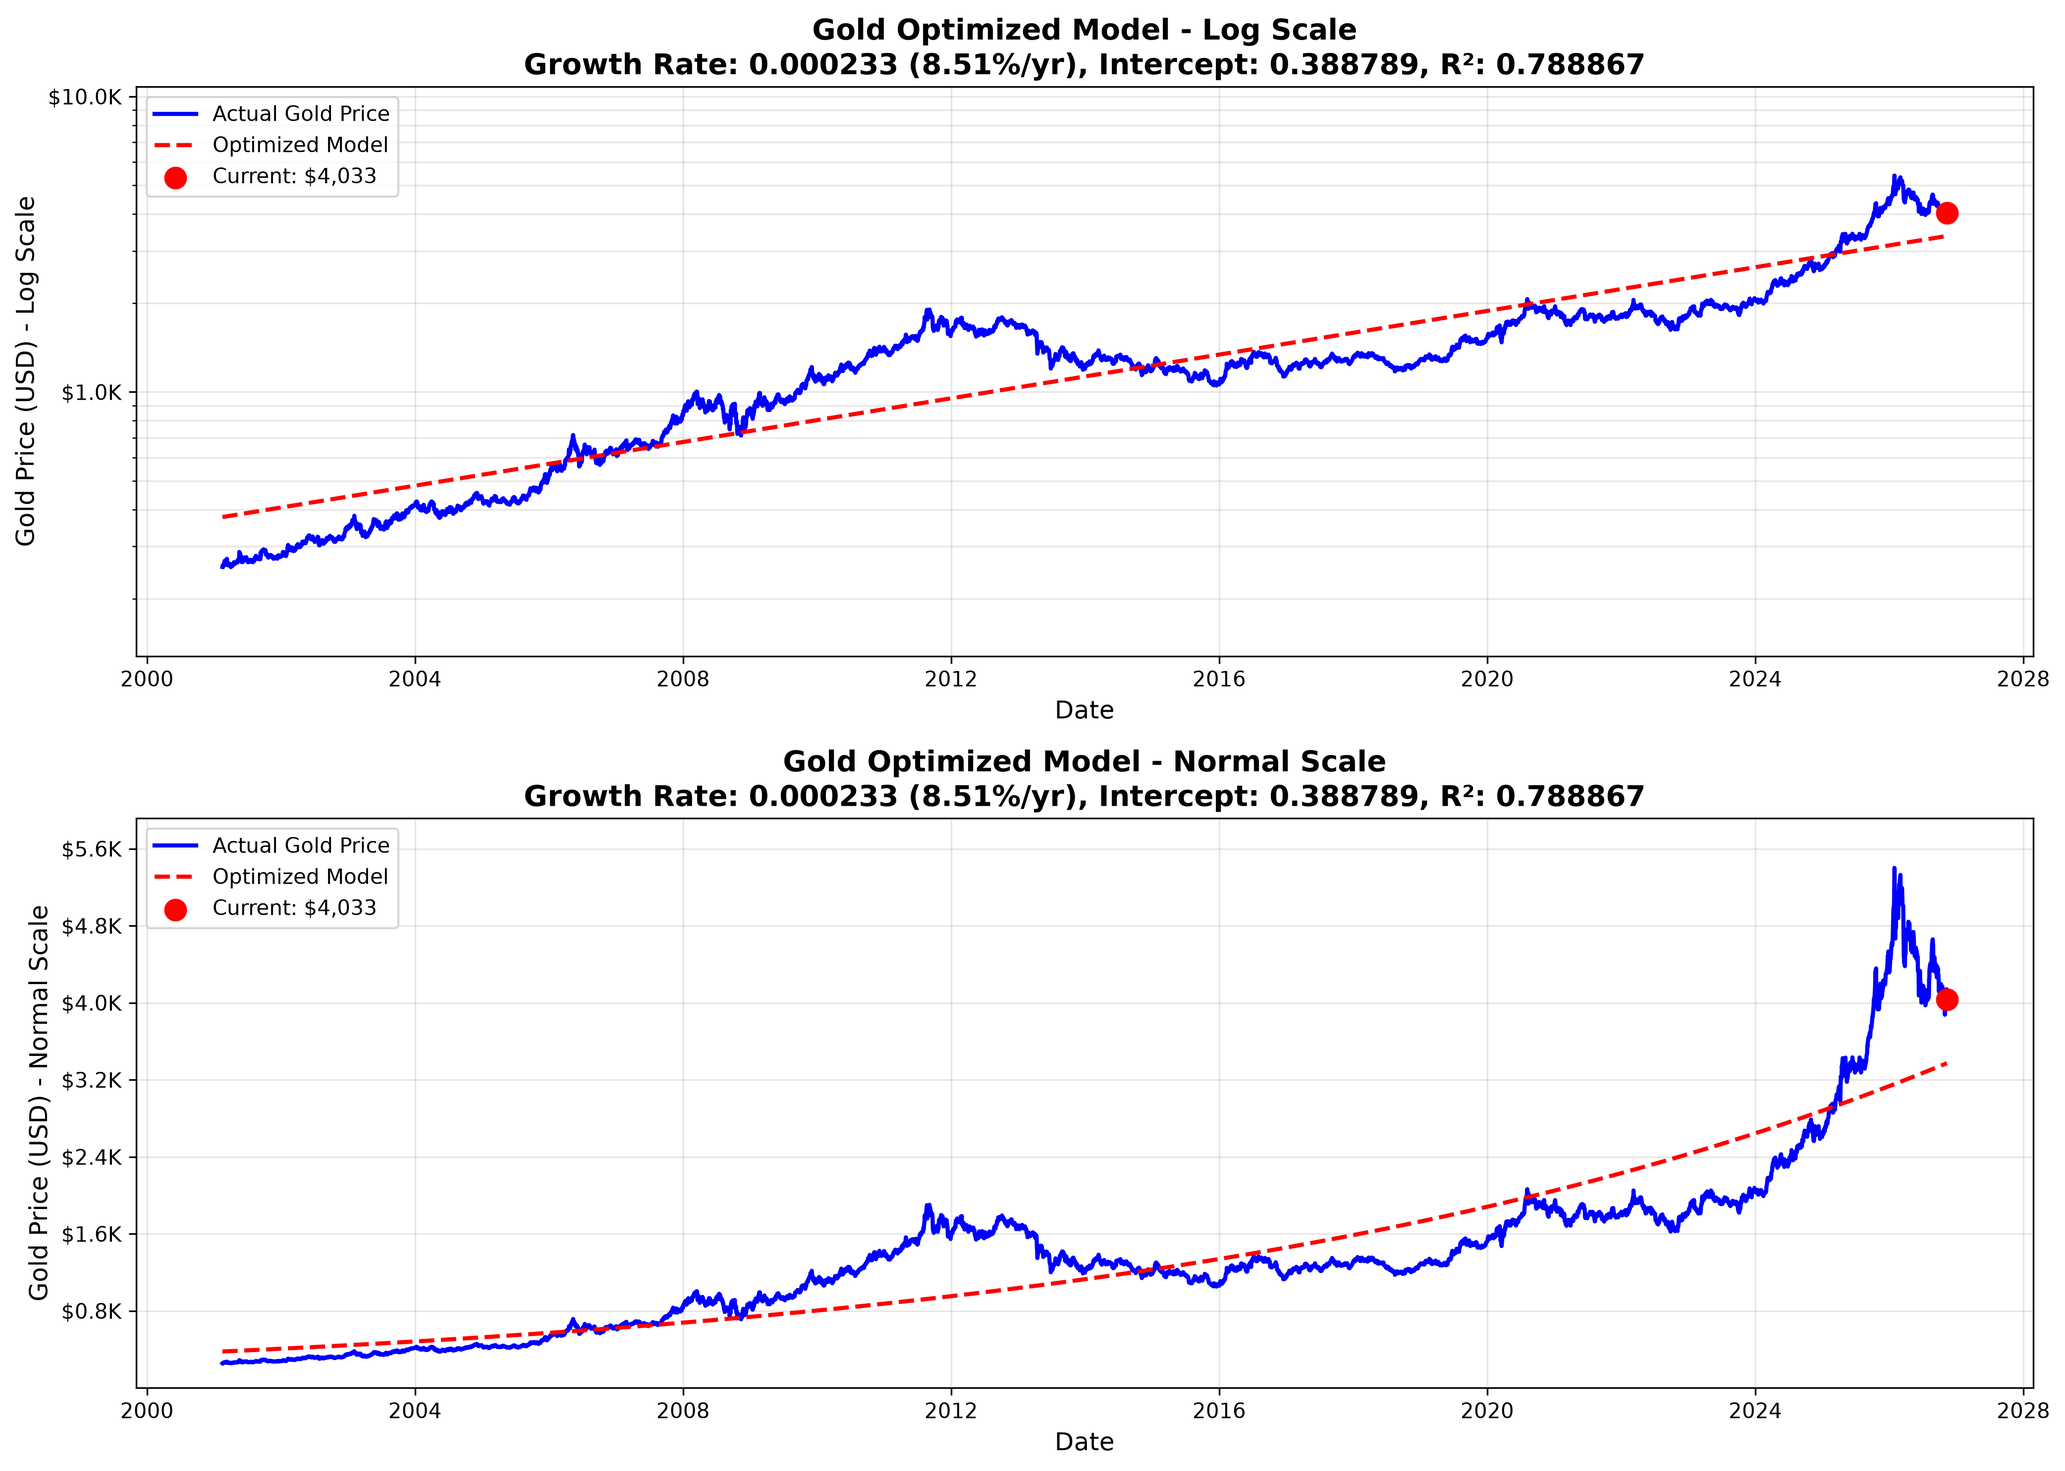
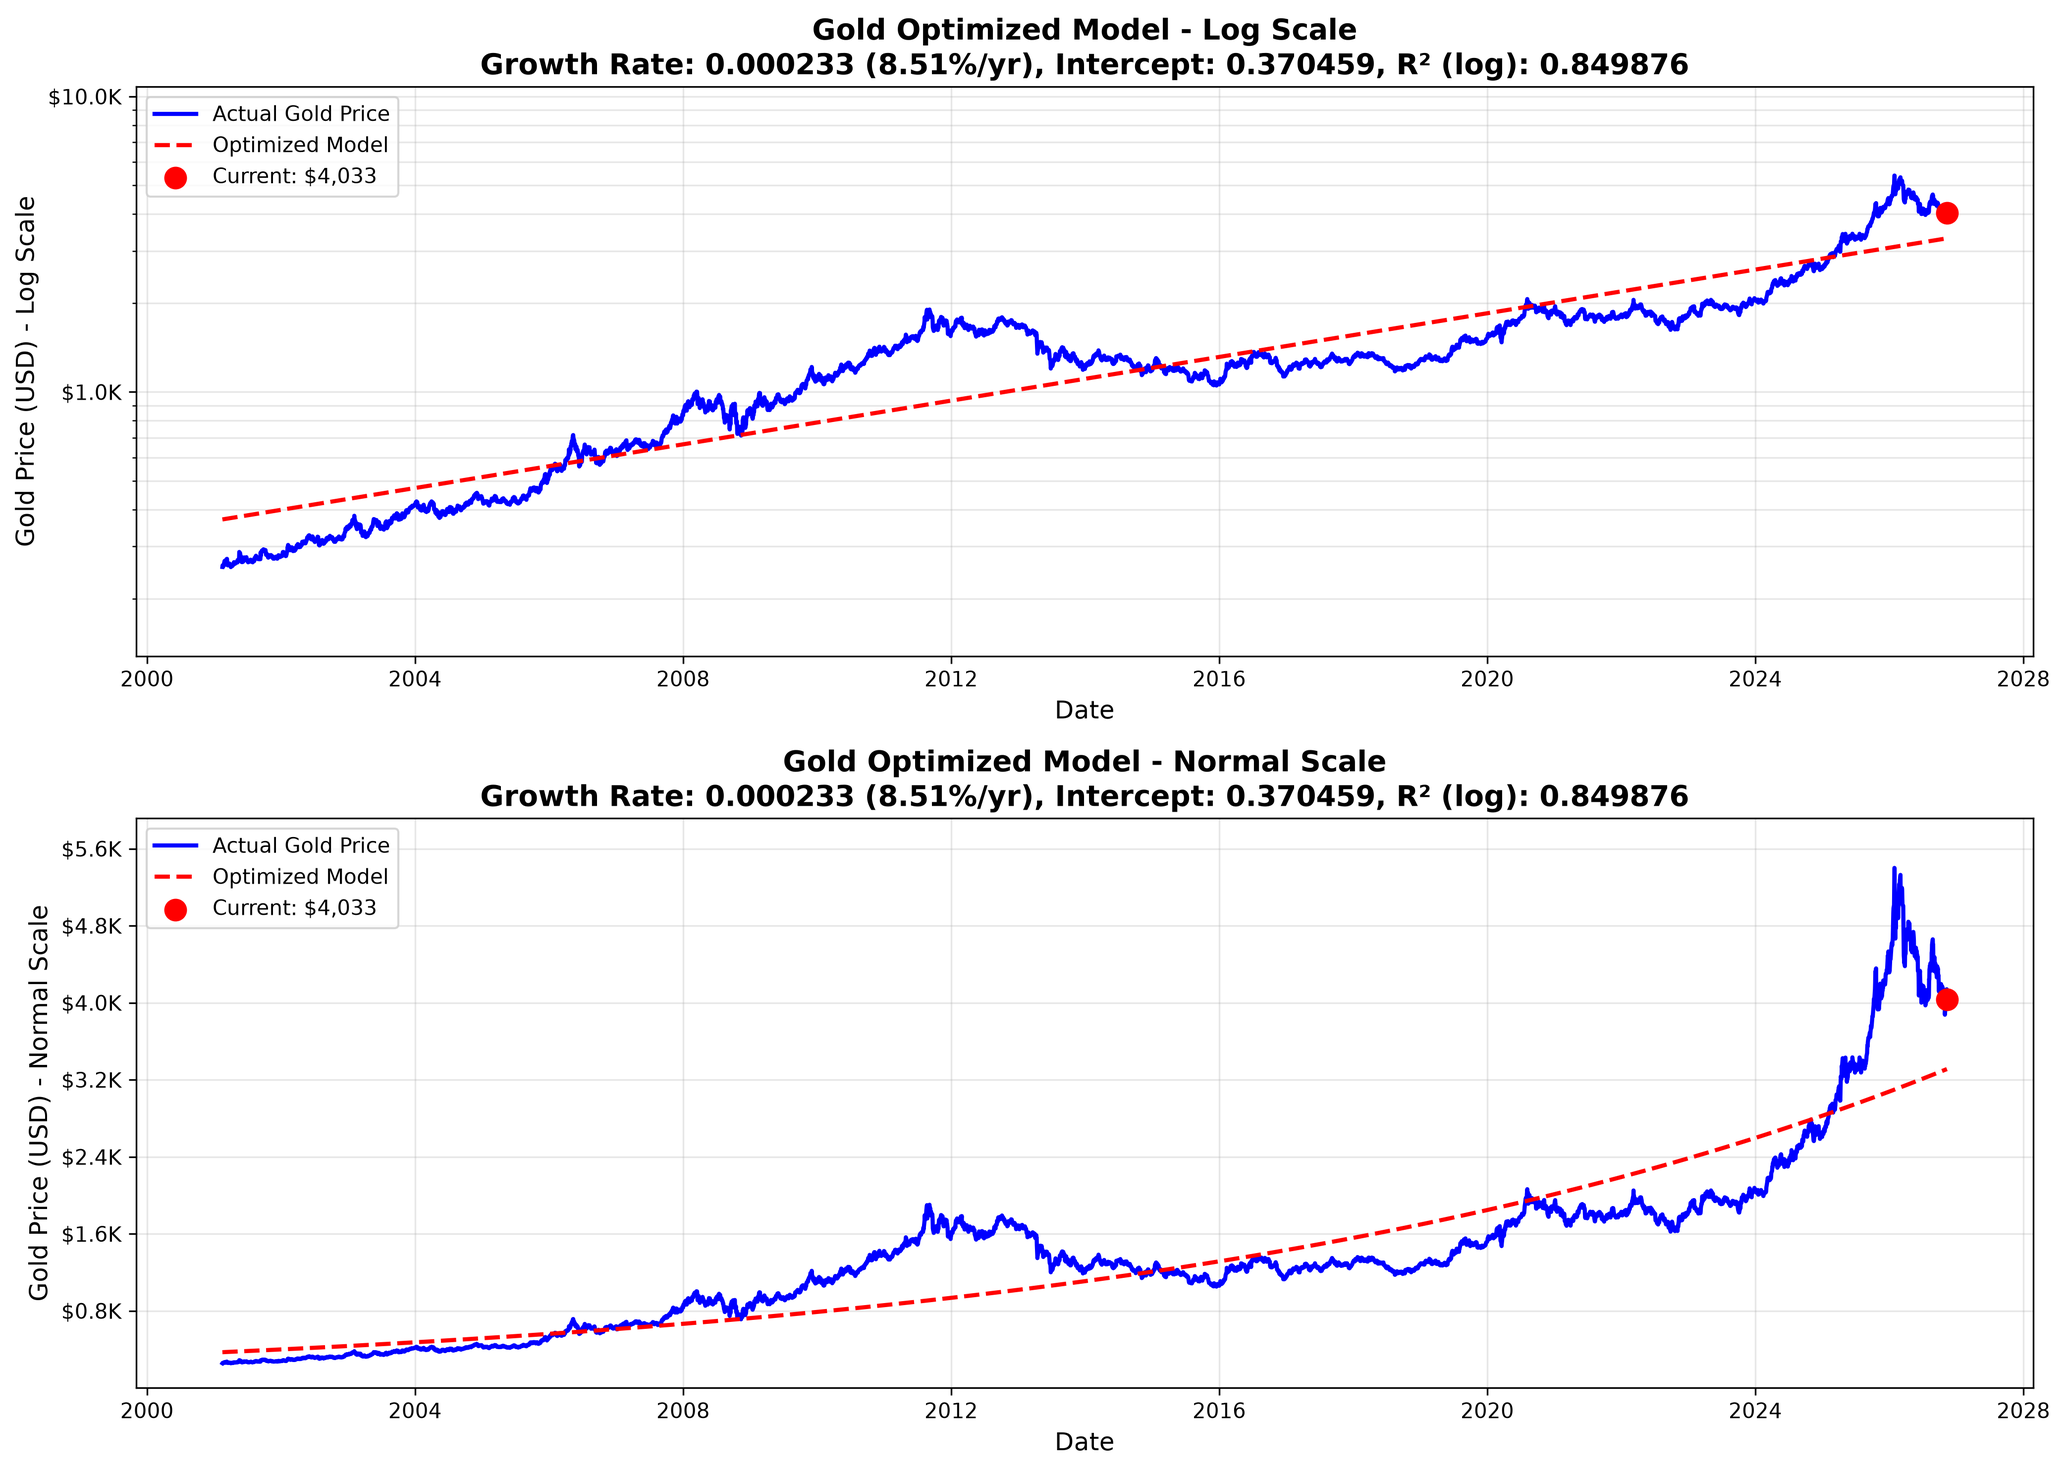
Score gold and silver model fits with log-scale R²
calculate_r2 in the gold exponential_v2 and silver exponential scripts now
compares log prices, so misses count as percentages and every period of
history is weighted equally instead of recent high-price years dominating.
R² outputs and chart titles are labeled "(log)". Regenerated results.

diff --git a/Commodities/Gold/exponential_v2/interactive_rainbow.py b/Commodities/Gold/exponential_v2/interactive_rainbow.py
@@ -136,9 +136,12 @@ def calculate_r2(y_actual, y_pred):
     y_actual_valid = y_actual[valid_mask]
     y_pred_valid = y_pred[valid_mask]
     
-    # Calculate R² in normal space (not log space for exponential model)
-    ss_res = np.sum((y_actual_valid - y_pred_valid) ** 2)
-    ss_tot = np.sum((y_actual_valid - np.mean(y_actual_valid)) ** 2)
+    # Calculate R² in log space: misses are scored as percentages, so every
+    # period of history counts equally regardless of price level.
+    log_actual = np.log(y_actual_valid)
+    log_pred = np.log(y_pred_valid)
+    ss_res = np.sum((log_actual - log_pred) ** 2)
+    ss_tot = np.sum((log_actual - np.mean(log_actual)) ** 2)
     
     if ss_tot == 0:
         return 0.0
@@ -234,8 +237,8 @@ def update_model(val):
     r2 = calculate_r2(df_filtered['Price'], df_filtered['Model_Price'])
     
     # Update titles
-    ax1.set_title(f'{CURRENCY_NAME} Rainbow Chart - Log Scale\nR² = {r2:.6f}', fontsize=14, fontweight='bold')
-    ax2.set_title(f'{CURRENCY_NAME} Rainbow Chart - Normal Scale\nR² = {r2:.6f}', fontsize=14, fontweight='bold')
+    ax1.set_title(f'{CURRENCY_NAME} Rainbow Chart - Log Scale\nR² (log) = {r2:.6f}', fontsize=14, fontweight='bold')
+    ax2.set_title(f'{CURRENCY_NAME} Rainbow Chart - Normal Scale\nR² (log) = {r2:.6f}', fontsize=14, fontweight='bold')
     
     # Update info text
     current_price = df_filtered['Price'].iloc[-1]
@@ -260,7 +263,7 @@ def update_model(val):
     # Calculate annualized growth rate for display
     annualized_rate = growth_rate * 365.25 * 100  # Convert to percentage
     
-    info_text = f"Growth Rate: {growth_rate:.6f} ({annualized_rate:.2f}%/yr) | R²: {r2:.6f} | Current: {current_str} | Model: {model_str} | Deviation: {deviation:+.1f}%"
+    info_text = f"Growth Rate: {growth_rate:.6f} ({annualized_rate:.2f}%/yr) | R² (log): {r2:.6f} | Current: {current_str} | Model: {model_str} | Deviation: {deviation:+.1f}%"
     
     ax_info.texts[0].set_text(info_text)
     
@@ -287,7 +290,7 @@ def main():
     print(f"Optimal growth rate: {initial_growth_rate:.6f} per day")
     annualized_rate = initial_growth_rate * 365.25 * 100
     print(f"Annualized growth rate: {annualized_rate:.2f}% per year")
-    print(f"Maximum R²: {optimal_r2:.6f}")
+    print(f"Maximum R² (log): {optimal_r2:.6f}")
     
     # Create figure with two subplots
     plt.style.use('default')
@@ -340,7 +343,7 @@ def main():
     # Add model information
     initial_r2 = calculate_r2(df_filtered['Price'], df_filtered['Model_Price'])
     annualized_rate = initial_growth_rate * 365.25 * 100
-    formula_text = f'Model: price = {first_price:.2f} × e^({initial_growth_rate:.6f} × (day - {first_days:.0f}))\nGrowth: {annualized_rate:.2f}%/yr | R² = {initial_r2:.4f}'
+    formula_text = f'Model: price = {first_price:.2f} × e^({initial_growth_rate:.6f} × (day - {first_days:.0f}))\nGrowth: {annualized_rate:.2f}%/yr | R² (log) = {initial_r2:.4f}'
     ax1.text(0.02, 0.02, formula_text, transform=ax1.transAxes, fontsize=10, 
             color='black', bbox=dict(facecolor='white', alpha=0.8, boxstyle='round,pad=0.5'))
     ax2.text(0.02, 0.02, formula_text, transform=ax2.transAxes, fontsize=10, 
@@ -350,7 +353,7 @@ def main():
     for ax, ylabel_suffix in [(ax1, 'Log Scale'), (ax2, 'Normal Scale')]:
         ax.set_xlabel('Date', fontsize=12)
         ax.set_ylabel(f'{CURRENCY_NAME} Price (USD) - {ylabel_suffix}', fontsize=12)
-        ax.set_title(f'{CURRENCY_NAME} Rainbow Chart - {ylabel_suffix}\nR² = {initial_r2:.6f}', fontsize=14, fontweight='bold')
+        ax.set_title(f'{CURRENCY_NAME} Rainbow Chart - {ylabel_suffix}\nR² (log) = {initial_r2:.6f}', fontsize=14, fontweight='bold')
         ax.grid(True, alpha=0.3, which='both')
         
         # Dynamic y-axis formatting based on data range
@@ -434,7 +437,7 @@ def main():
     # Calculate annualized growth rate for display
     annualized_rate = initial_growth_rate * 365.25 * 100
     
-    info_text = f"Growth Rate: {initial_growth_rate:.6f} ({annualized_rate:.2f}%/yr) | R²: {initial_r2:.6f} | Current: {current_str} | Model: {model_str} | Deviation: {deviation:+.1f}%"
+    info_text = f"Growth Rate: {initial_growth_rate:.6f} ({annualized_rate:.2f}%/yr) | R² (log): {initial_r2:.6f} | Current: {current_str} | Model: {model_str} | Deviation: {deviation:+.1f}%"
     
     ax_info.text(0.02, 0.5, info_text, transform=ax_info.transAxes, fontsize=11, 
                 verticalalignment='center', bbox=dict(facecolor='lightgray', alpha=0.8, boxstyle='round,pad=0.3'))

diff --git a/Commodities/Silver/exponential/interactive_rainbow.py b/Commodities/Silver/exponential/interactive_rainbow.py
@@ -136,9 +136,12 @@ def calculate_r2(y_actual, y_pred):
     y_actual_valid = y_actual[valid_mask]
     y_pred_valid = y_pred[valid_mask]
     
-    # Calculate R² in normal space (not log space for exponential model)
-    ss_res = np.sum((y_actual_valid - y_pred_valid) ** 2)
-    ss_tot = np.sum((y_actual_valid - np.mean(y_actual_valid)) ** 2)
+    # Calculate R² in log space: misses are scored as percentages, so every
+    # period of history counts equally regardless of price level.
+    log_actual = np.log(y_actual_valid)
+    log_pred = np.log(y_pred_valid)
+    ss_res = np.sum((log_actual - log_pred) ** 2)
+    ss_tot = np.sum((log_actual - np.mean(log_actual)) ** 2)
     
     if ss_tot == 0:
         return 0.0
@@ -234,8 +237,8 @@ def update_model(val):
     r2 = calculate_r2(df_filtered['Price'], df_filtered['Model_Price'])
     
     # Update titles
-    ax1.set_title(f'{CURRENCY_NAME} Rainbow Chart - Log Scale\nR² = {r2:.6f}', fontsize=14, fontweight='bold')
-    ax2.set_title(f'{CURRENCY_NAME} Rainbow Chart - Normal Scale\nR² = {r2:.6f}', fontsize=14, fontweight='bold')
+    ax1.set_title(f'{CURRENCY_NAME} Rainbow Chart - Log Scale\nR² (log) = {r2:.6f}', fontsize=14, fontweight='bold')
+    ax2.set_title(f'{CURRENCY_NAME} Rainbow Chart - Normal Scale\nR² (log) = {r2:.6f}', fontsize=14, fontweight='bold')
     
     # Update info text
     current_price = df_filtered['Price'].iloc[-1]
@@ -260,7 +263,7 @@ def update_model(val):
     # Calculate annualized growth rate for display
     annualized_rate = growth_rate * 365.25 * 100  # Convert to percentage
     
-    info_text = f"Growth Rate: {growth_rate:.6f} ({annualized_rate:.2f}%/yr) | R²: {r2:.6f} | Current: {current_str} | Model: {model_str} | Deviation: {deviation:+.1f}%"
+    info_text = f"Growth Rate: {growth_rate:.6f} ({annualized_rate:.2f}%/yr) | R² (log): {r2:.6f} | Current: {current_str} | Model: {model_str} | Deviation: {deviation:+.1f}%"
     
     ax_info.texts[0].set_text(info_text)
     
@@ -287,7 +290,7 @@ def main():
     print(f"Optimal growth rate: {initial_growth_rate:.6f} per day")
     annualized_rate = initial_growth_rate * 365.25 * 100
     print(f"Annualized growth rate: {annualized_rate:.2f}% per year")
-    print(f"Maximum R²: {optimal_r2:.6f}")
+    print(f"Maximum R² (log): {optimal_r2:.6f}")
     
     # Create figure with two subplots
     plt.style.use('default')
@@ -340,7 +343,7 @@ def main():
     # Add model information
     initial_r2 = calculate_r2(df_filtered['Price'], df_filtered['Model_Price'])
     annualized_rate = initial_growth_rate * 365.25 * 100
-    formula_text = f'Model: price = {first_price:.2f} × e^({initial_growth_rate:.6f} × (day - {first_days:.0f}))\nGrowth: {annualized_rate:.2f}%/yr | R² = {initial_r2:.4f}'
+    formula_text = f'Model: price = {first_price:.2f} × e^({initial_growth_rate:.6f} × (day - {first_days:.0f}))\nGrowth: {annualized_rate:.2f}%/yr | R² (log) = {initial_r2:.4f}'
     ax1.text(0.02, 0.02, formula_text, transform=ax1.transAxes, fontsize=10, 
             color='black', bbox=dict(facecolor='white', alpha=0.8, boxstyle='round,pad=0.5'))
     ax2.text(0.02, 0.02, formula_text, transform=ax2.transAxes, fontsize=10, 
@@ -350,7 +353,7 @@ def main():
     for ax, ylabel_suffix in [(ax1, 'Log Scale'), (ax2, 'Normal Scale')]:
         ax.set_xlabel('Date', fontsize=12)
         ax.set_ylabel(f'{CURRENCY_NAME} Price (USD) - {ylabel_suffix}', fontsize=12)
-        ax.set_title(f'{CURRENCY_NAME} Rainbow Chart - {ylabel_suffix}\nR² = {initial_r2:.6f}', fontsize=14, fontweight='bold')
+        ax.set_title(f'{CURRENCY_NAME} Rainbow Chart - {ylabel_suffix}\nR² (log) = {initial_r2:.6f}', fontsize=14, fontweight='bold')
         ax.grid(True, alpha=0.3, which='both')
         
         # Dynamic y-axis formatting based on data range
@@ -434,7 +437,7 @@ def main():
     # Calculate annualized growth rate for display
     annualized_rate = initial_growth_rate * 365.25 * 100
     
-    info_text = f"Growth Rate: {initial_growth_rate:.6f} ({annualized_rate:.2f}%/yr) | R²: {initial_r2:.6f} | Current: {current_str} | Model: {model_str} | Deviation: {deviation:+.1f}%"
+    info_text = f"Growth Rate: {initial_growth_rate:.6f} ({annualized_rate:.2f}%/yr) | R² (log): {initial_r2:.6f} | Current: {current_str} | Model: {model_str} | Deviation: {deviation:+.1f}%"
     
     ax_info.text(0.02, 0.5, info_text, transform=ax_info.transAxes, fontsize=11, 
                 verticalalignment='center', bbox=dict(facecolor='lightgray', alpha=0.8, boxstyle='round,pad=0.3'))

diff --git a/Commodities/Gold/exponential_v2/optimize_intercept.py b/Commodities/Gold/exponential_v2/optimize_intercept.py
@@ -145,9 +145,12 @@ def calculate_r2(y_actual, y_pred):
     y_actual_valid = y_actual[valid_mask]
     y_pred_valid = y_pred[valid_mask]
     
-    # Calculate R² in normal space (not log space for exponential model)
-    ss_res = np.sum((y_actual_valid - y_pred_valid) ** 2)
-    ss_tot = np.sum((y_actual_valid - np.mean(y_actual_valid)) ** 2)
+    # Calculate R² in log space: misses are scored as percentages, so every
+    # period of history counts equally regardless of price level.
+    log_actual = np.log(y_actual_valid)
+    log_pred = np.log(y_pred_valid)
+    ss_res = np.sum((log_actual - log_pred) ** 2)
+    ss_tot = np.sum((log_actual - np.mean(log_actual)) ** 2)
     
     if ss_tot == 0:
         return 0.0
@@ -225,7 +228,7 @@ def optimize_intercept_for_r2(df, growth_rate):
         optimal_offset = 0.0
     
     print(f"Optimal intercept: {optimal_intercept:.6f} (base: 0.0, offset: {optimal_offset:.6f})")
-    print(f"Maximum R²: {optimal_r2:.6f}")
+    print(f"Maximum R² (log): {optimal_r2:.6f}")
     
     return optimal_intercept, optimal_r2
 
@@ -271,7 +274,7 @@ def create_optimization_chart(df, growth_rate, optimal_intercept, optimal_r2):
         ax.set_xlabel('Date', fontsize=12)
         ax.set_ylabel(f'{CURRENCY_NAME} Price (USD) - {ylabel_suffix}', fontsize=12)
         annualized_rate = growth_rate * 365.25 * 100
-        ax.set_title(f'{CURRENCY_NAME} Optimized Model - {ylabel_suffix}\nGrowth Rate: {growth_rate:.6f} ({annualized_rate:.2f}%/yr), Intercept: {optimal_intercept:.6f}, R²: {optimal_r2:.6f}', 
+        ax.set_title(f'{CURRENCY_NAME} Optimized Model - {ylabel_suffix}\nGrowth Rate: {growth_rate:.6f} ({annualized_rate:.2f}%/yr), Intercept: {optimal_intercept:.6f}, R² (log): {optimal_r2:.6f}', 
                     fontsize=14, fontweight='bold')
         ax.grid(True, alpha=0.3, which='both')
         
@@ -422,7 +425,7 @@ def save_optimization_results(growth_rate, optimal_intercept, optimal_r2, projec
         f.write(f"Fixed Growth Rate: {growth_rate:.6f} per day\n")
         f.write(f"Annualized Growth Rate: {annualized_rate:.2f}% per year\n")
         f.write(f"Optimal Intercept: {optimal_intercept:.6f}\n")
-        f.write(f"Maximum R²: {optimal_r2:.6f}\n\n")
+        f.write(f"Maximum R² (log): {optimal_r2:.6f}\n\n")
         
         f.write("MODEL FORMULA\n")
         f.write("-" * 20 + "\n")
@@ -505,7 +508,7 @@ def main():
     print("=" * 60)
     print(f"Fixed Growth Rate: {fixed_growth_rate:.6f} per day ({annualized_rate:.2f}% per year)")
     print(f"Optimal Intercept: {optimal_intercept:.6f}")
-    print(f"Maximum R²: {optimal_r2:.6f}")
+    print(f"Maximum R² (log): {optimal_r2:.6f}")
     print(f"Current Price: ${projections['current_price']:,.2f}")
     print(f"Model Fair Price: ${projections['current_fair_price']:,.2f}")
     print(f"{'Overvalued' if projections['undervaluation'] > 0 else 'Undervalued'} by {abs(projections['undervaluation']):.2f}% vs fair value")

diff --git a/Commodities/Silver/exponential/optimize_intercept.py b/Commodities/Silver/exponential/optimize_intercept.py
@@ -145,9 +145,12 @@ def calculate_r2(y_actual, y_pred):
     y_actual_valid = y_actual[valid_mask]
     y_pred_valid = y_pred[valid_mask]
     
-    # Calculate R² in normal space (not log space for exponential model)
-    ss_res = np.sum((y_actual_valid - y_pred_valid) ** 2)
-    ss_tot = np.sum((y_actual_valid - np.mean(y_actual_valid)) ** 2)
+    # Calculate R² in log space: misses are scored as percentages, so every
+    # period of history counts equally regardless of price level.
+    log_actual = np.log(y_actual_valid)
+    log_pred = np.log(y_pred_valid)
+    ss_res = np.sum((log_actual - log_pred) ** 2)
+    ss_tot = np.sum((log_actual - np.mean(log_actual)) ** 2)
     
     if ss_tot == 0:
         return 0.0
@@ -210,7 +213,7 @@ def optimize_intercept_for_r2(df, growth_rate):
         optimal_r2 = -objective_function(optimal_intercept)
     
     print(f"Optimal intercept: {optimal_intercept:.6f}")
-    print(f"Maximum R²: {optimal_r2:.6f}")
+    print(f"Maximum R² (log): {optimal_r2:.6f}")
     
     return optimal_intercept, optimal_r2
 
@@ -256,7 +259,7 @@ def create_optimization_chart(df, growth_rate, optimal_intercept, optimal_r2):
         ax.set_xlabel('Date', fontsize=12)
         ax.set_ylabel(f'{CURRENCY_NAME} Price (USD) - {ylabel_suffix}', fontsize=12)
         annualized_rate = growth_rate * 365.25 * 100
-        ax.set_title(f'{CURRENCY_NAME} Optimized Model - {ylabel_suffix}\nGrowth Rate: {growth_rate:.6f} ({annualized_rate:.2f}%/yr), Intercept: {optimal_intercept:.6f}, R²: {optimal_r2:.6f}', 
+        ax.set_title(f'{CURRENCY_NAME} Optimized Model - {ylabel_suffix}\nGrowth Rate: {growth_rate:.6f} ({annualized_rate:.2f}%/yr), Intercept: {optimal_intercept:.6f}, R² (log): {optimal_r2:.6f}', 
                     fontsize=14, fontweight='bold')
         ax.grid(True, alpha=0.3, which='both')
         
@@ -407,7 +410,7 @@ def save_optimization_results(growth_rate, optimal_intercept, optimal_r2, projec
         f.write(f"Fixed Growth Rate: {growth_rate:.6f} per day\n")
         f.write(f"Annualized Growth Rate: {annualized_rate:.2f}% per year\n")
         f.write(f"Optimal Intercept: {optimal_intercept:.6f}\n")
-        f.write(f"Maximum R²: {optimal_r2:.6f}\n\n")
+        f.write(f"Maximum R² (log): {optimal_r2:.6f}\n\n")
         
         f.write("MODEL FORMULA\n")
         f.write("-" * 20 + "\n")
@@ -490,7 +493,7 @@ def main():
     print("=" * 60)
     print(f"Fixed Growth Rate: {fixed_growth_rate:.6f} per day ({annualized_rate:.2f}% per year)")
     print(f"Optimal Intercept: {optimal_intercept:.6f}")
-    print(f"Maximum R²: {optimal_r2:.6f}")
+    print(f"Maximum R² (log): {optimal_r2:.6f}")
     print(f"Current Price: ${projections['current_price']:,.2f}")
     print(f"Model Fair Price: ${projections['current_fair_price']:,.2f}")
     print(f"{'Overvalued' if projections['undervaluation'] > 0 else 'Undervalued'} by {abs(projections['undervaluation']):.2f}% vs fair value")
